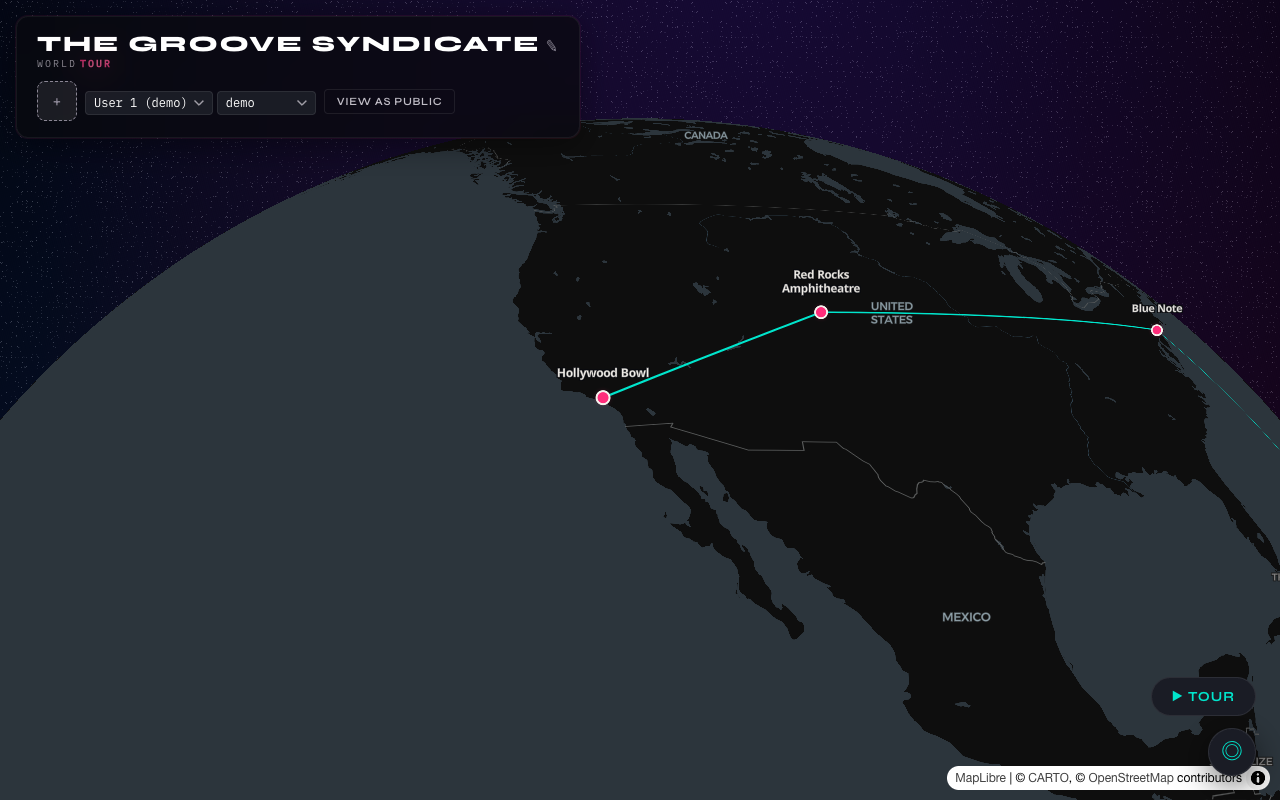
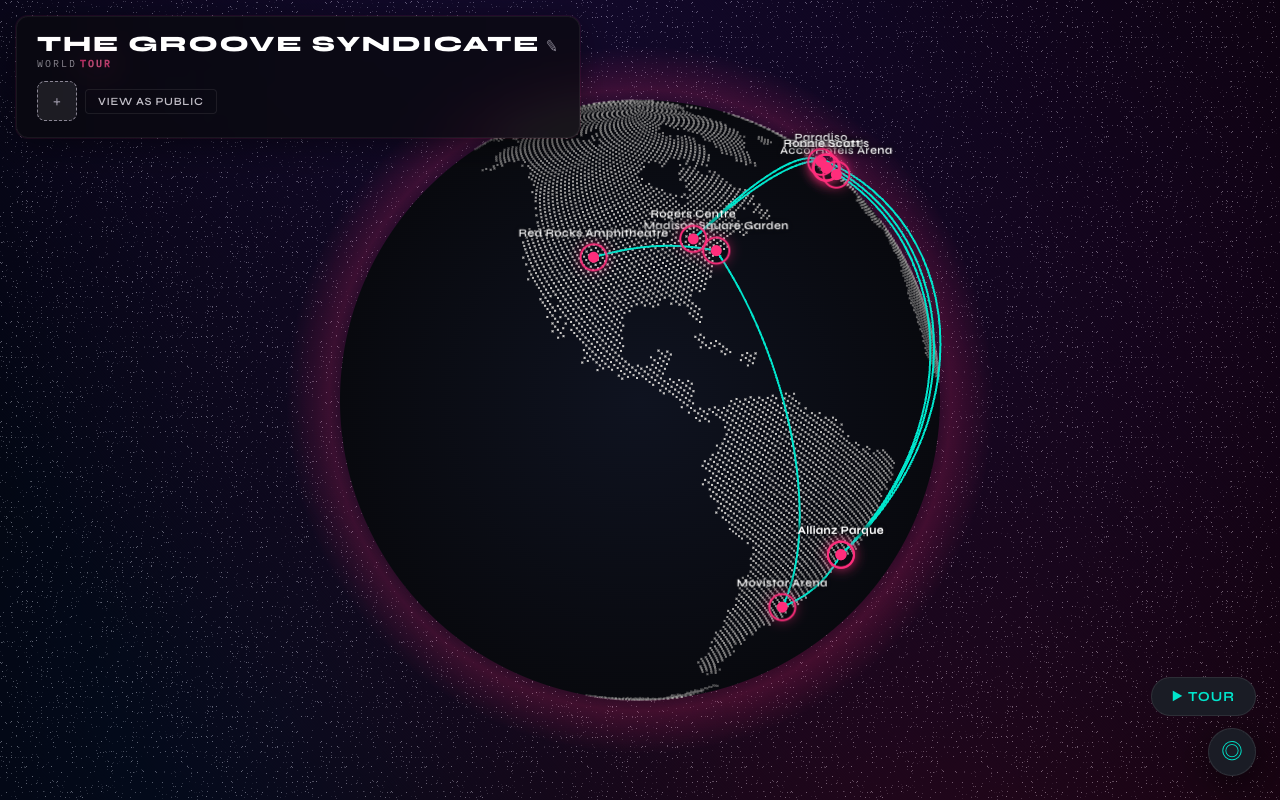
chore(world-tour): simplify screenshot capture and regenerate
The Vite jazzPlugin already spawns a managed Jazz dev server, pushes
the schema, and writes VITE_JAZZ_APP_ID / VITE_JAZZ_SERVER_URL into
the dev server's env. The previous setup ran a second manual Jazz
server via Playwright globalSetup and overrode those env vars,
causing the plugin to try to connect to the manual server without
the admin secret and surface as a Vite error overlay.

- Delete e2e/global-setup.ts and the e2e/ directory.
- Drop globalSetup and the VITE_JAZZ_* env overrides from the
  Playwright config; jazzPlugin handles everything.
- Strip numbered banner / narration comments from screenshots.test.ts
  (numbered output filenames preserved — walkthrough markdown
  references them).
- Regenerate all 8 walkthrough screenshots against the new globe.

diff --git a/examples/world-tour/walkthrough/screenshots.test.ts b/examples/world-tour/walkthrough/screenshots.test.ts
@@ -10,13 +10,11 @@ const SHOTS = join(import.meta.dirname, "screenshots");
 test.use({ viewport: { width: 1280, height: 800 } });
 
 test("capture walkthrough screenshots", async ({ page }) => {
-  // ── 0. Load the app (logged-in by default) ───────────────────────────────
   await page.goto("/");
   await expect(page.locator("#map")).toBeVisible({ timeout: 60_000 });
-  // Give MapLibre tiles and WASM runtime time to settle
-  await page.waitForTimeout(5000);
+  // Give the WASM runtime time to settle and cobe a few frames to render.
+  await page.waitForTimeout(2000);
 
-  // ── 1. Splash modal (shown to logged-in users) ──────────────────────────
   const splashBtn = page.locator(".splash-btn");
   if (await splashBtn.isVisible({ timeout: 3_000 }).catch(() => false)) {
     await page.screenshot({ path: join(SHOTS, "01-globe-overview.png") });
@@ -24,12 +22,9 @@ test("capture walkthrough screenshots", async ({ page }) => {
     await page.waitForTimeout(500);
   }
 
-  // ── 2. Logged-in globe with stop dots ────────────────────────────────────
   await page.waitForTimeout(2000);
   await page.screenshot({ path: join(SHOTS, "03-logged-in-globe.png") });
 
-  // ── 3. Click a stop dot to open the detail sheet ─────────────────────────
-  // Use the calendar's first stop chip to reliably open a stop
   const stopChip = page.locator(".stop-chip").first();
   if (await stopChip.isVisible({ timeout: 3_000 }).catch(() => false)) {
     await stopChip.dispatchEvent("click");
@@ -37,20 +32,17 @@ test("capture walkthrough screenshots", async ({ page }) => {
   }
   await page.screenshot({ path: join(SHOTS, "04-stop-detail.png") });
 
-  // ── 4. Calendar close-up ─────────────────────────────────────────────────
   const calendar = page.locator(".tour-calendar");
   if (await calendar.isVisible({ timeout: 2_000 }).catch(() => false)) {
     await calendar.screenshot({ path: join(SHOTS, "05-calendar.png") });
   }
 
-  // ── 5. Close sheet, trigger add-stop popover ─────────────────────────────
   const sheetClose = page.locator(".sheet-close");
   if (await sheetClose.isVisible({ timeout: 1_000 }).catch(() => false)) {
     await sheetClose.click();
     await page.waitForTimeout(500);
   }
 
-  // Click on the map to trigger the add-stop popover
   const mapEl = page.locator("#map");
   const box = await mapEl.boundingBox();
   if (box) {
@@ -61,20 +53,16 @@ test("capture walkthrough screenshots", async ({ page }) => {
   const popover = page.locator(".popover");
   if (await popover.isVisible({ timeout: 3_000 }).catch(() => false)) {
     await page.screenshot({ path: join(SHOTS, "06-add-stop-popover.png") });
-
-    // Confirm to open the create form
     await page.locator(".popover-btn.confirm").click();
     await expect(page.locator(".stop-create-form")).toBeVisible({ timeout: 5_000 });
     await page.screenshot({ path: join(SHOTS, "07-create-form.png") });
   }
 
-  // ── 6. Control bar close-up ──────────────────────────────────────────────
   await page.locator(".control-bar").screenshot({ path: join(SHOTS, "08-control-bar.png") });
 
-  // ── 7. Public view ───────────────────────────────────────────────────────
   await page.goto("/?public");
   await expect(page.locator("#map")).toBeVisible({ timeout: 60_000 });
-  await page.waitForTimeout(5000);
+  await page.waitForTimeout(2000);
 
   const posterOverlay = page.locator(".poster-overlay");
   if (await posterOverlay.isVisible({ timeout: 10_000 }).catch(() => false)) {

diff --git a/examples/world-tour/playwright.screenshots.config.ts b/examples/world-tour/playwright.screenshots.config.ts
@@ -5,7 +5,6 @@ export default defineConfig({
   testMatch: "screenshots.test.ts",
   timeout: 180_000,
   reporter: "list",
-  globalSetup: "./e2e/global-setup.ts",
   use: {
     baseURL: "http://localhost:5176",
   },
@@ -26,9 +25,6 @@ export default defineConfig({
     reuseExistingServer: false,
     cwd: import.meta.dirname,
     env: {
-      VITE_JAZZ_SERVER_URL: `http://127.0.0.1:19879`,
-      VITE_JAZZ_SERVER_PORT: "19879",
-      VITE_JAZZ_APP_ID: "00000000-0000-0000-0000-000000000100",
       VITE_E2E: "true",
     },
   },
